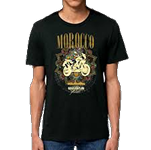
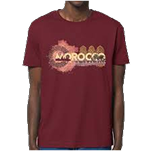
#ending-project: done CamisetasComponent

diff --git a/Diseño de interfaces WEB DOR/UD12 Angular/MotoRuteros/MotoRuteros/src/app/components/tienda/camisetas/camisetas.component.css b/Diseño de interfaces WEB DOR/UD12 Angular/MotoRuteros/MotoRuteros/src/app/components/tienda/camisetas/camisetas.component.css
@@ -1,0 +1,82 @@
+h1{
+    font-size: 5em;
+    text-align: center;
+}
+
+p{
+    font-size: 1.5em;
+    text-align: center;
+    width: 100%; /* El párrafo ocupará todo el ancho del contenedor padre */
+    word-wrap: break-word; /* Ajusta las palabras largas al ancho del contenedor */
+    overflow-wrap: break-word; /* Alternativa para ajustar palabras largas */
+}
+
+img{
+    border: none;
+}
+
+.container{
+    display:flex;
+    justify-content: center;
+    align-items: center;
+}
+
+.column{
+    display: flex;
+    flex-direction: column;
+    justify-content: center;
+    align-items: center;
+    width: 80em;
+    margin: 2rem;
+    /* background-color: blue; Color de fondo */
+}
+
+/*item*/
+
+.item{
+    display: flex;
+    flex-direction: column;
+    align-items: center;
+    justify-content: center;
+    width: 60%;
+    height: 80%;
+    margin: 2rem;
+    padding: 2rem;
+    background-color:rgb(92, 151, 145); /* Color de fondo */
+    border-radius: 25px; /* Bordes redondeados */
+    box-shadow: 0px 4px 6px rgba(0, 0, 0, 0.1); /* Sombra */
+    font-family: 'Orbitron', sans-serif;
+    text-decoration: none;
+    color: black; /* Color del texto */
+}
+
+.item:hover {
+    transform: scale(1.05);
+    box-shadow: 0px 6px 8px rgba(0, 0, 0, 0.3);
+}
+
+/*Botones*/
+.custom-button.seleccionado {
+    background-color: #3FB9ED; /* Cambia el color de fondo cuando está seleccionado */
+    color: white; /* Cambia el color del texto */
+    border: 2px solid #ffffff; /* Agrega un borde blanco */
+}
+
+.custom-button {
+    background-color: #40E0D0; /* Color turquesa */
+    color: black; /* Texto en negro */
+    font-size: 16px; /* Ajusta el tamaño del texto */
+    padding: 5px 20px; /* Espaciado interno para hacerlo cómodo */
+    border: none; /* Sin borde */
+    border-radius: 15px; /* Esquinas redondeadas */
+    box-shadow: 0px 4px 6px rgba(0, 0, 0, 0.2); /* Sombra sutil */
+    cursor: pointer; /* Cambia el cursor al pasar sobre el botón */
+    transition: transform 0.2s ease, box-shadow 0.2s ease; /* Efectos suaves */
+    width: 100%;
+}
+  
+.custom-button:hover {
+    transform: scale(1.05); /* Hace el botón ligeramente más grande al pasar el cursor */
+    box-shadow: 0px 6px 8px rgba(0, 0, 0, 0.3); /* Intensifica la sombra al pasar el cursor */
+}
+

diff --git a/Diseño de interfaces WEB DOR/UD12 Angular/MotoRuteros/MotoRuteros/src/app/components/tienda/camisetas/camisetas.component.html b/Diseño de interfaces WEB DOR/UD12 Angular/MotoRuteros/MotoRuteros/src/app/components/tienda/camisetas/camisetas.component.html
@@ -1,1 +1,45 @@
-<p>camisetas works!</p>
+<div class="camisetas">
+    <h1>Camisetas</h1>
+    <div class="container">
+        <div class="column">
+            <a class="item" [routerLink]="'/camisetas'">
+                <img src="camisetaevol.png" alt="Camisetas">
+                <p>Camiseta unisex de algodón, disponible en tallas S, M, L y XL. Diseño divertido: simio evolucionando
+                    hasta motero. ¡Ideal para amantes de las motocicletas y la evolución!</p>
+                <button class="custom-button" [routerLink]="'/pasarela'">
+                    Añadir al carrito
+                </button>
+            </a>
+
+            <a class="item" [routerLink]="'/camisetas'">
+                <img src="camisetaharley.png" alt="Camisetas">
+                <p>Camiseta unisex de algodón, disponible en tallas S, M, L y XL. Diseño con una moto clásica tipo
+                    chopper.
+                    ¡Perfecta para los amantes del estilo retro y las motocicletas!</p>
+                <button class="custom-button" [routerLink]="'/pasarela'">
+                    Añadir al carrito
+                </button>
+            </a>
+        </div>
+        <div class="column">
+            <a class="item" [routerLink]="'/camisetas'">
+                <img src="camisetamorcco.png" alt="Camisetas">
+                <p>Camiseta unisex de algodón, disponible en tallas S, M, L y XL. Estampado de motos y el texto
+                    'Marruecos'.
+                    ¡Perfecta para los aficionados a los viajes y las motos.</p>
+                <button class="custom-button" [routerLink]="'/pasarela'">
+                    Añadir al carrito
+                </button>
+            </a>
+            <a class="item" [routerLink]="'/camisetas'">
+                <img src="camisetamorocco2.png" alt="Camisetas">
+                <p>Camiseta unisex de algodón, disponible en tallas S, M, L y XL. Diseño con una moto trail y el texto
+                    'Morocco'. ¡Perfecta para los aventureros y amantes de los viajes en motocicleta!</p>
+                <button class="custom-button" [routerLink]="'/pasarela'">
+                    Añadir al carrito
+                </button>
+            </a>
+        </div>
+
+    </div>
+</div>

diff --git a/Diseño de interfaces WEB DOR/UD12 Angular/MotoRuteros/MotoRuteros/src/app/components/tienda/camisetas/camisetas.component.ts b/Diseño de interfaces WEB DOR/UD12 Angular/MotoRuteros/MotoRuteros/src/app/components/tienda/camisetas/camisetas.component.ts
@@ -1,8 +1,9 @@
 import { Component } from '@angular/core';
+import { RouterLink } from '@angular/router';
 
 @Component({
   selector: 'app-camisetas',
-  imports: [],
+  imports: [RouterLink],
   templateUrl: './camisetas.component.html',
   styleUrl: './camisetas.component.css'
 })
